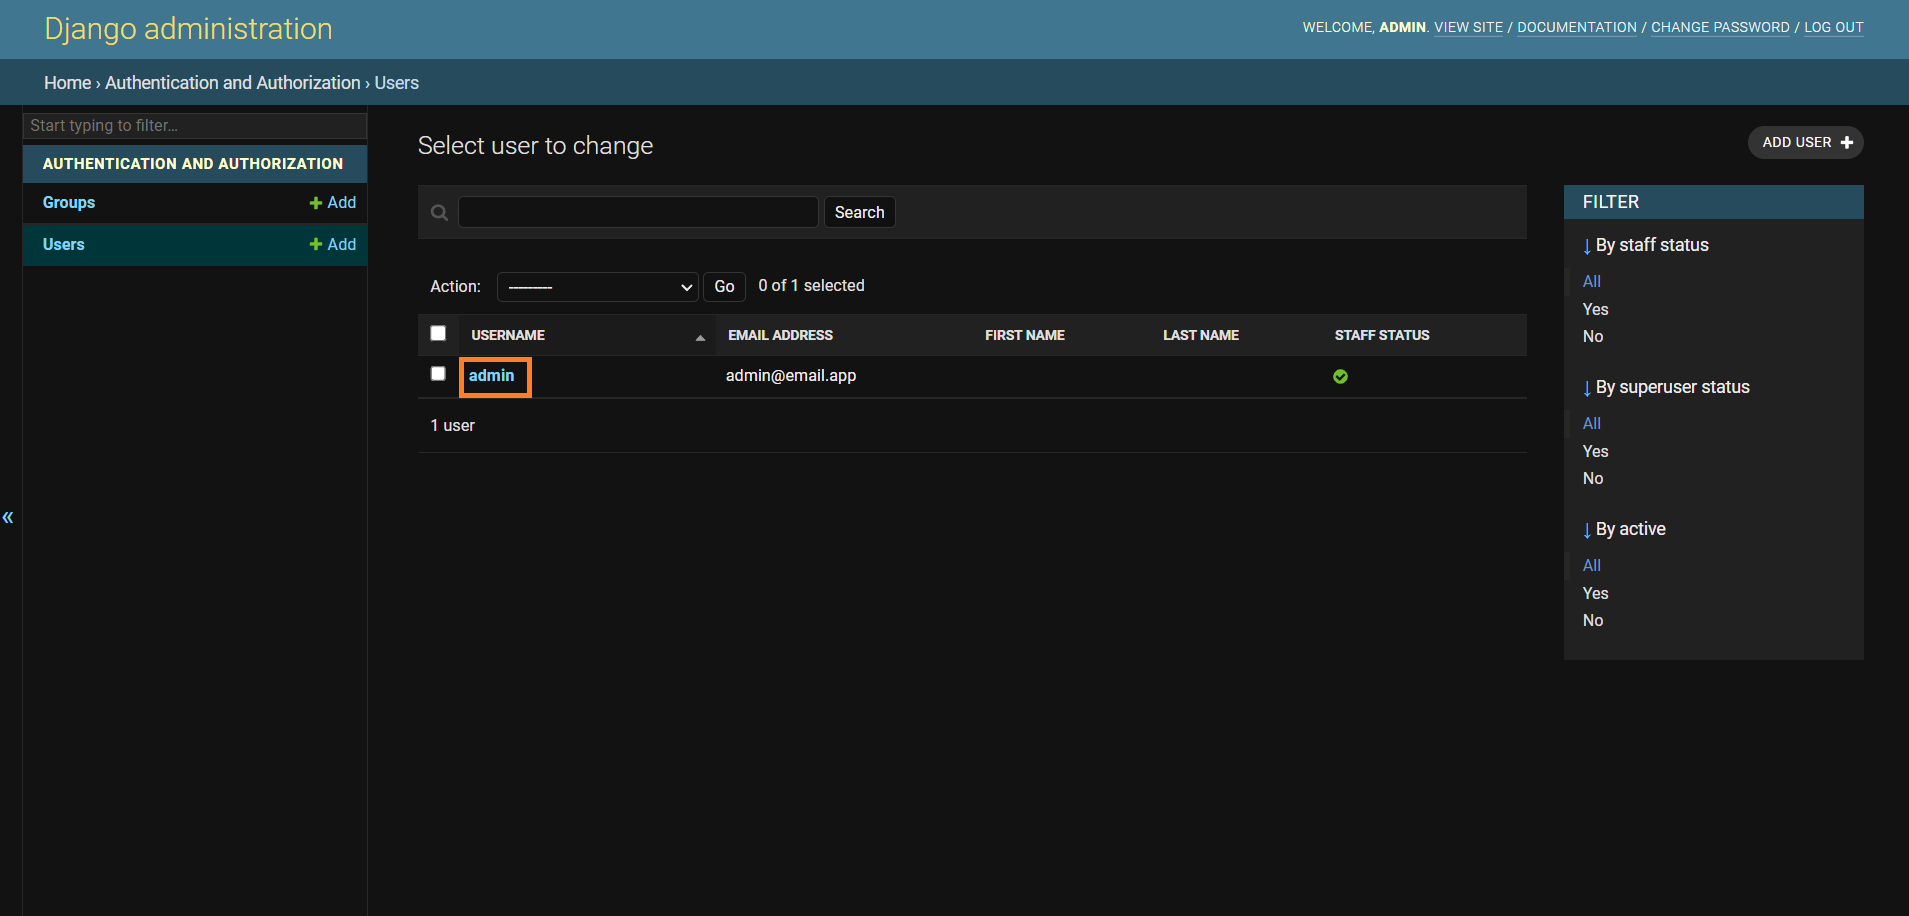
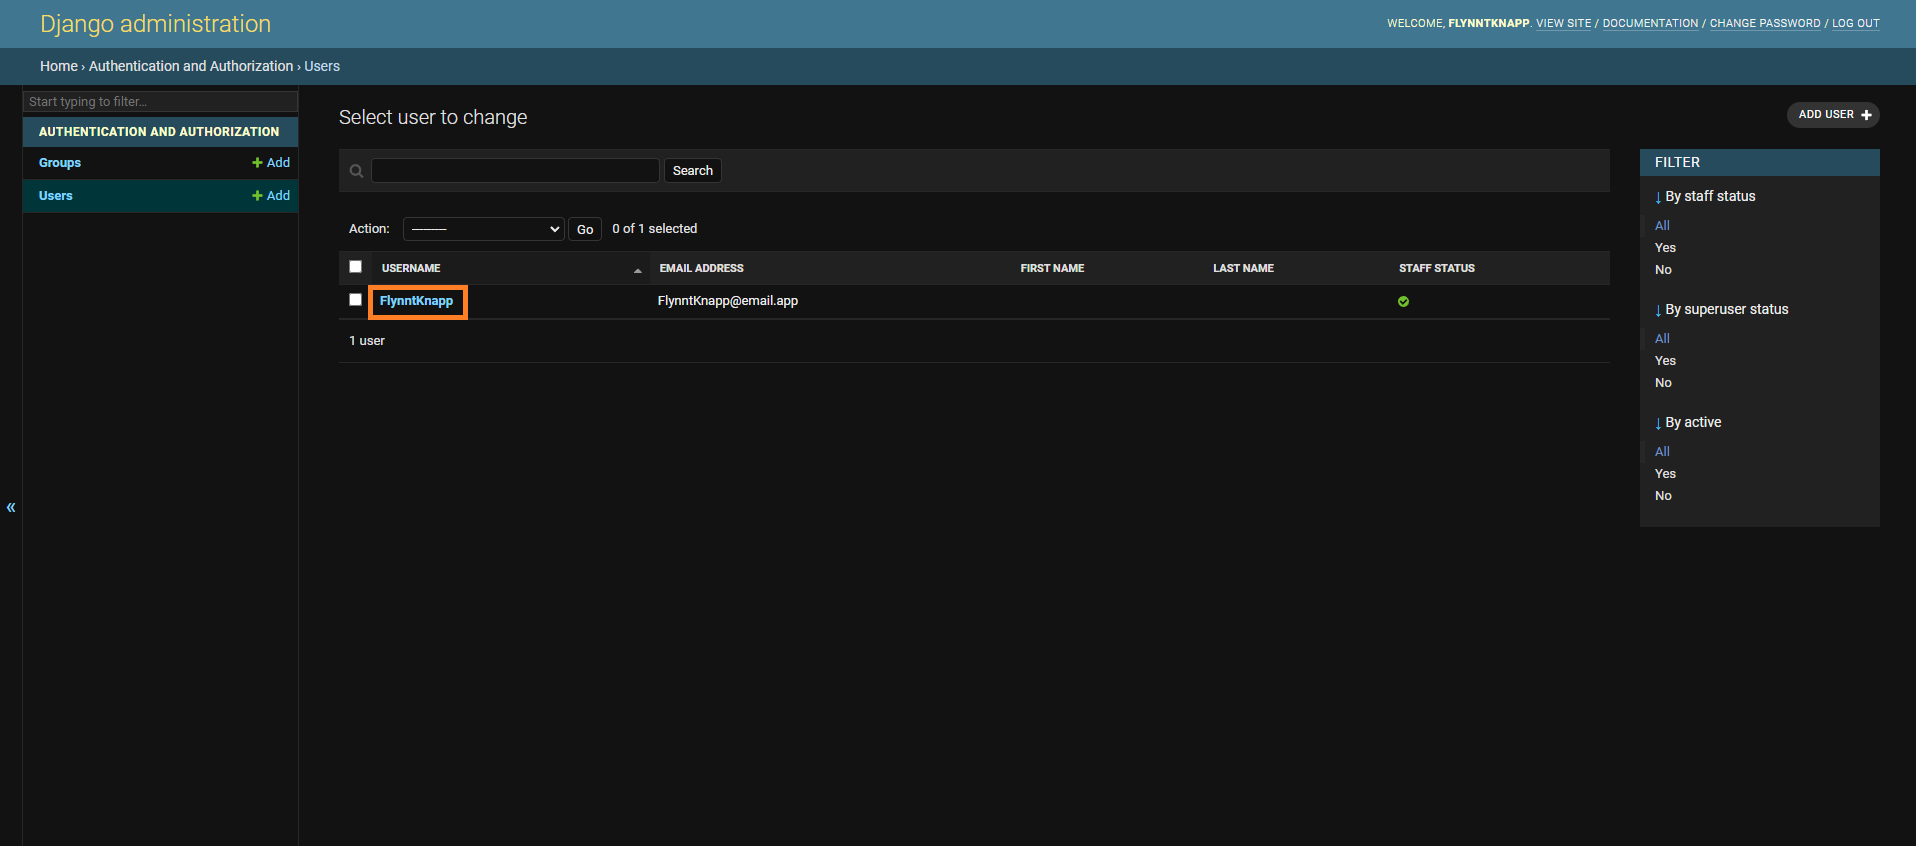
Change username in example code and images

diff --git a/process/02_add_django_admindocs.md b/process/02_add_django_admindocs.md
@@ -171,18 +171,12 @@
 
     IMPORTANT: Never use weak passwords for an application in production.
 
-    IMPORTANT: We are only using `admin` here since the database is on our development system and will not contain actual data from the application.
-
-    IMPORTANT: We are only using a weak password here since the database is on our development system and will not contain actual data from the application.
-
-    * `python manage.py createsuperuser --email admin@email.app --username admin`
+    * `python manage.py createsuperuser --email FlynntKnapp@email.app --username FlynntKnapp`
 
         ```console
-        PS C:\Users\FlynntKnapp\Programming\django-anonymous-user> python manage.py createsuperuser --email admin@email.app --username admin
-        Password:
-        Password (again):
-        This password is too common.
-        Bypass password validation and create user anyway? [y/N]: y
+        PS C:\Users\FlynntKnapp\Programming\django-anonymous-user> python manage.py createsuperuser --email FlynntKnapp@email.app --username FlynntKnapp
+        Password: 
+        Password (again): 
         Superuser created successfully.
         PS C:\Users\FlynntKnapp\Programming\django-anonymous-user>
         ```
@@ -260,10 +254,10 @@
 
 1. If there is already a `User`, there should be, the `User` account you are using right now.
     * There is probably a `User` account (if you used the provided `createsuperuser` command above) with the following attributes:
-        * Username: `admin`
-        * Email address: `admin@email.app`
+        * Username: `FlynntKnapp`
+        * Email address: `FlynntKnapp@email.app`
         * ID: `1`
-    * Click the link for the `User` account '`admin`' you are using right now.
+    * Click the link for the `User` account '`FlynntKnapp`' you are using right now.
         * Note the URL to view this user account. This is a common pattern in Django list, detail, and change views:
             * <http://localhost:8000/admin/auth/user/1/change/>
         * Sample browser image:

diff --git a/notes/00_commands_and_links.md b/notes/00_commands_and_links.md
@@ -56,4 +56,5 @@
 * `python manage.py migrate`
 * `python manage.py createsuperuser`
 * `python manage.py createsuperuser --email admin@email.app --username admin`
+* `python manage.py createsuperuser --email FlynntKnapp@email.app --username FlynntKnapp`
 * `python manage.py runserver`
